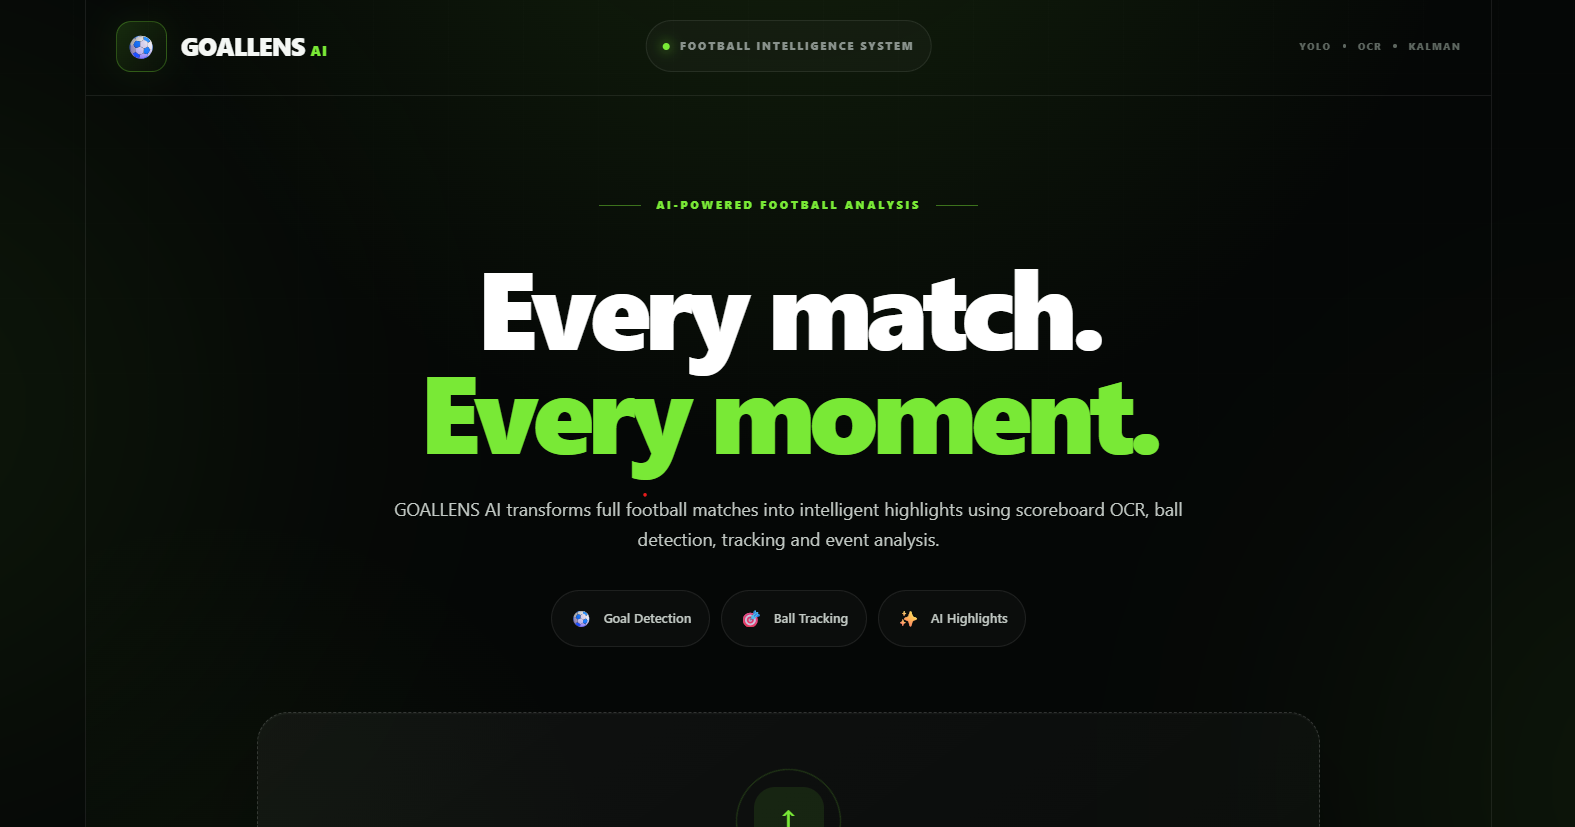
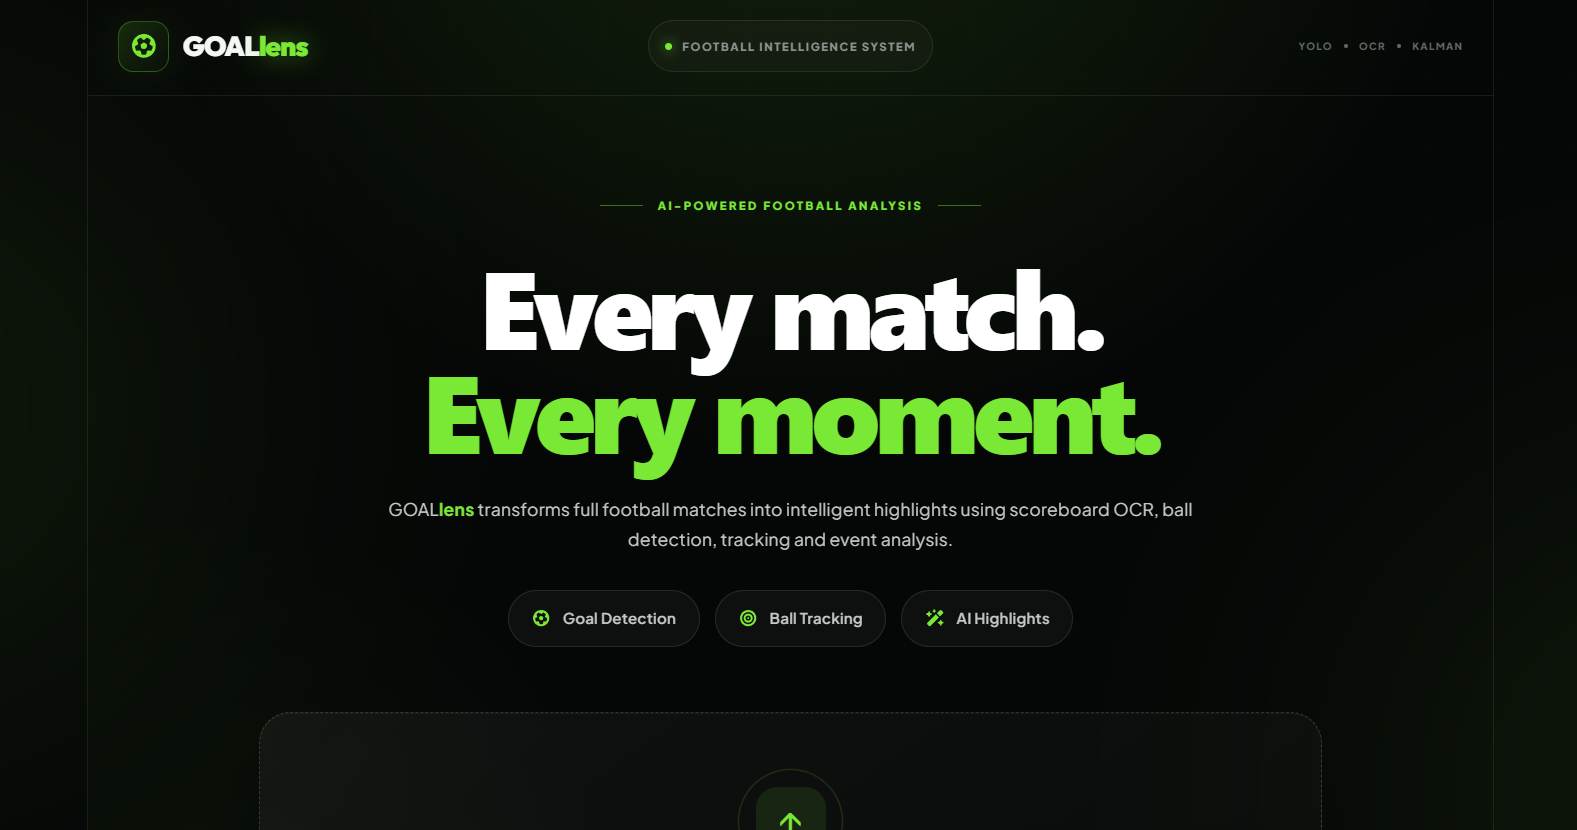
docs: update UI preview screenshots and GOALlens branding in README

diff --git a/README.md b/README.md
@@ -1,8 +1,8 @@
-# ⚽ GOALLENS-AI
+# ⚽ GOALlens
 
 ## AI-Based Football Highlight Detection and Generation
 
-GOALLENS-AI is an AI-powered computer vision system that automatically analyzes football match videos, detects important events, and generates a concise highlight video.
+**GOALlens** is an AI-powered computer vision system that automatically analyzes football match videos, detects important events, and generates a concise highlight video.
 
 The system combines **YOLO object detection, football tracking, scoreboard detection, OCR, temporal event analysis, and automated video processing** to identify important moments such as goals and ball-related events.
 
@@ -10,21 +10,21 @@ The system combines **YOLO object detection, football tracking, scoreboard detec
 
 ## 🖥 Application Preview
 
-### GOALLENS-AI Dashboard
+### GOALlens Dashboard
 
-![GOALLENS-AI Dashboard](docs/images/goallens-dashboard.png)
+![GOALlens Dashboard](docs/images/goallens-dashboard.png)
 
-### Highlight Generation Interface
+### Video Upload & Highlight Generation Interface
 
-![GOALLENS-AI Highlight Generation](docs/images/goallens-dashboard2.png)
+![GOALlens Highlight Generation](docs/images/goallens-dashboard2.png)
 
 ---
 
 ## 🎬 Highlight Generation Demo
 
-GOALLENS-AI automatically detects football events and generates highlight clips from the input match video.
+GOALlens automatically detects football events and generates highlight clips from the input match video.
 
-![GOALLENS-AI Highlight Demo](docs/images/goallens-highlight-demo.gif)
+![GOALlens Highlight Demo](docs/images/goallens-highlight-demo.gif)
 
 The generated highlight pipeline combines ball-based event detection with scoreboard-based goal detection and merges overlapping highlight intervals into a final video.
 
@@ -36,13 +36,13 @@ Football matches can last more than 90 minutes and contain a large amount of gam
 
 Manually reviewing an entire match to identify goals and other important events is time-consuming.
 
-GOALLENS-AI aims to automatically analyze football match videos and generate highlight videos containing important moments without requiring the user to manually search through the entire match.
+GOALlens aims to automatically analyze football match videos and generate highlight videos containing important moments without requiring the user to manually search through the entire match.
 
 ---
 
 ## 🎯 Objectives
 
-The main objectives of GOALLENS-AI are:
+The main objectives of GOALlens are:
 
 * Detect the football in match videos.
 * Track the football across consecutive frames.
@@ -60,7 +60,7 @@ The main objectives of GOALLENS-AI are:
 
 ## 🏗 Project Architecture
 
-The overall GOALLENS-AI system consists of a React frontend, FastAPI backend, computer vision pipelines, event detection modules, and automated highlight generation.
+The overall GOALlens system consists of a React frontend, FastAPI backend, computer vision pipelines, event detection modules, and automated highlight generation.
 
 ```mermaid
 flowchart TD
@@ -156,7 +156,7 @@ backend/models/scoreboard/best.pt
 
 ### 4. Match Videos
 
-Football match videos were used for testing and demonstrating the complete GOALLENS-AI highlight-generation pipeline.
+Football match videos were used for testing and demonstrating the complete GOALlens highlight-generation pipeline.
 
 Due to the large size of football video files, the original match videos and generated highlight videos are **not included directly in this repository**.
 
@@ -168,7 +168,7 @@ Users can provide their own football match video as input when running the appli
 
 ## 🧠 Methodology
 
-The GOALLENS-AI pipeline consists of several stages.
+The GOALlens pipeline consists of several stages.
 
 ```text
 Football Match Video
@@ -438,7 +438,7 @@ Vite will provide a local development URL, normally:
 http://localhost:5173
 ```
 
-Open the URL in a browser to access the GOALLENS-AI application.
+Open the URL in a browser to access the GOALlens application.
 
 ---
 
@@ -466,7 +466,7 @@ If future model files exceed GitHub's file-size limitations, they should be host
 
 ## 📊 Results & Performance
 
-GOALLENS-AI successfully demonstrates an end-to-end football highlight generation pipeline.
+GOALlens successfully demonstrates an end-to-end football highlight generation pipeline.
 
 The system is capable of:
 
@@ -578,7 +578,7 @@ The project source code, trained YOLO models, documentation images, and demonstr
 
 ## 🔬 Project Highlights
 
-GOALLENS-AI integrates multiple computer vision techniques into a single football video analysis system:
+GOALlens integrates multiple computer vision techniques into a single football video analysis system:
 
 * YOLO-based object detection
 * Football tracking
